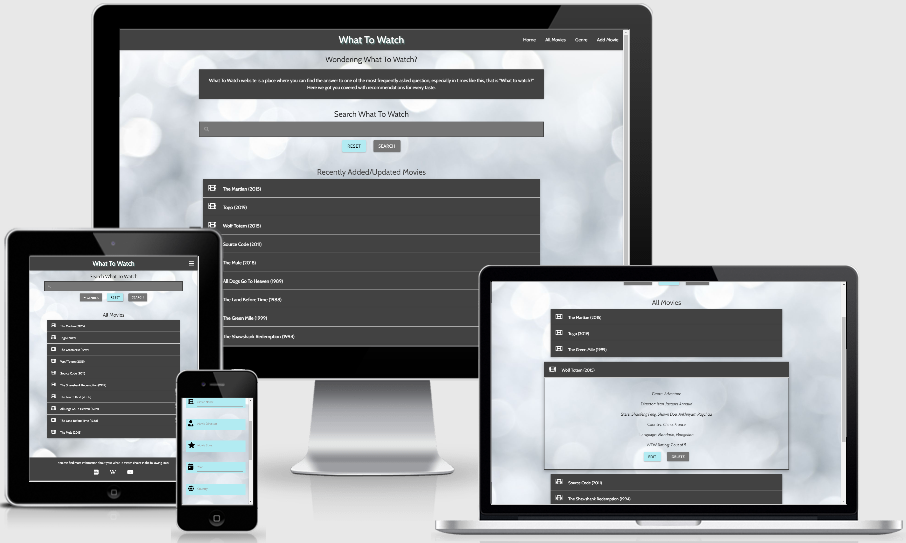
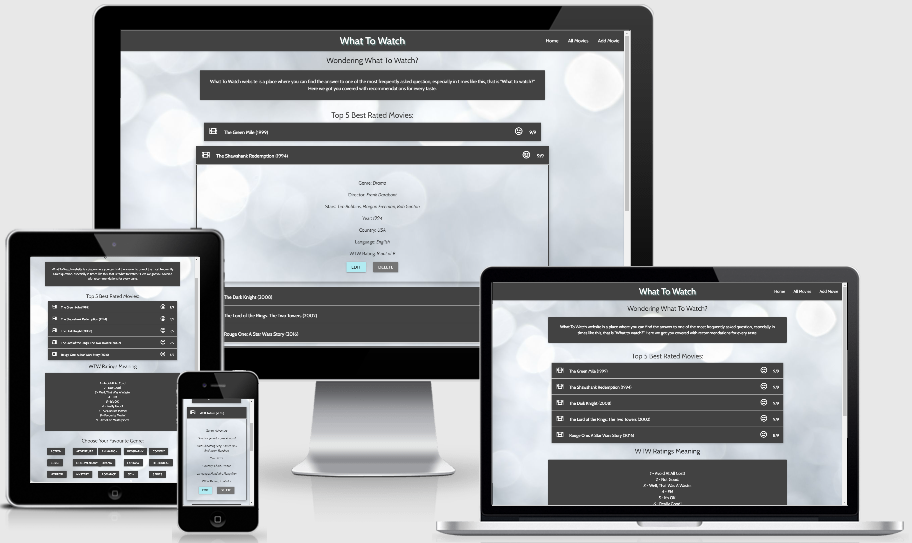
Update responsive image and Features in README.md

diff --git a/README.md b/README.md
@@ -62,6 +62,8 @@ The website WTW is also containing CRUD(Create, Read, Update, Delete) functional
    * Update an item's information by clicking on it and then select the 'Edit' button.
    * Delete an item from the database by clicking on it and then select the 'Delete' button.
 
+The User can also filtering movies database by different genres.
+
 ### Left to Implement 
 
    * Adding a register user, Log In/Out options so that the user can still see all the content in the website but restrict the access 
